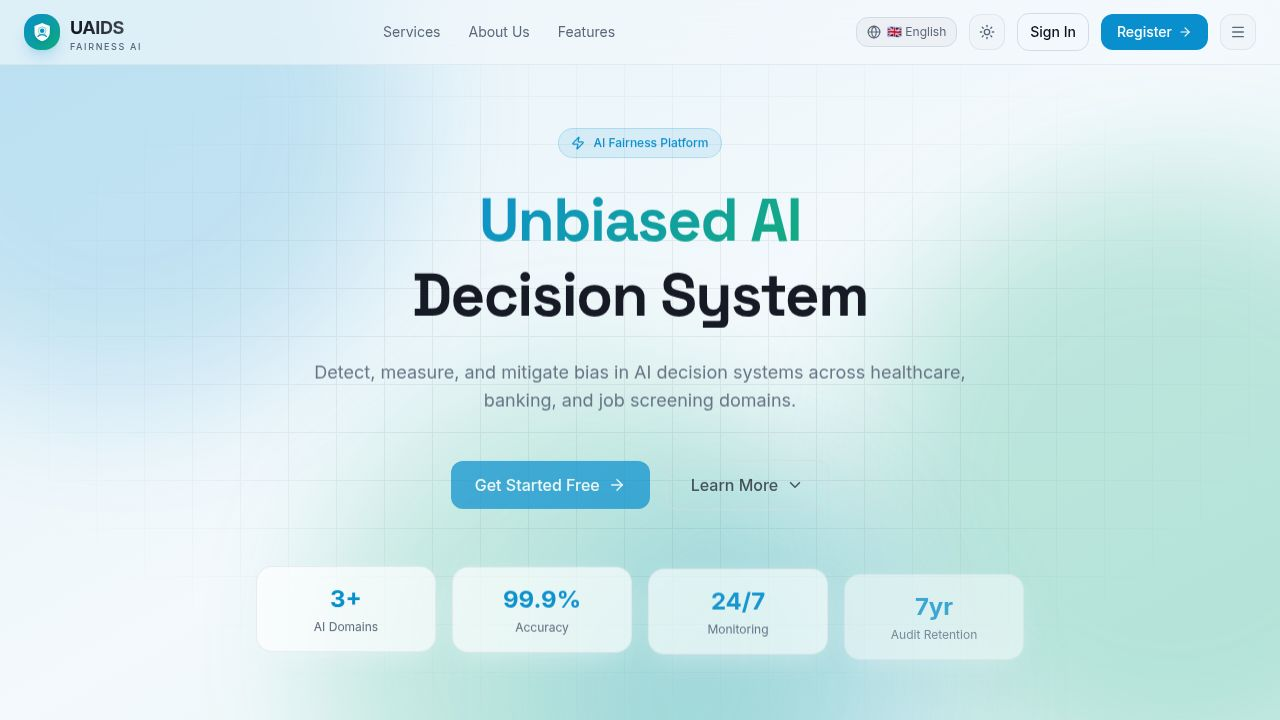
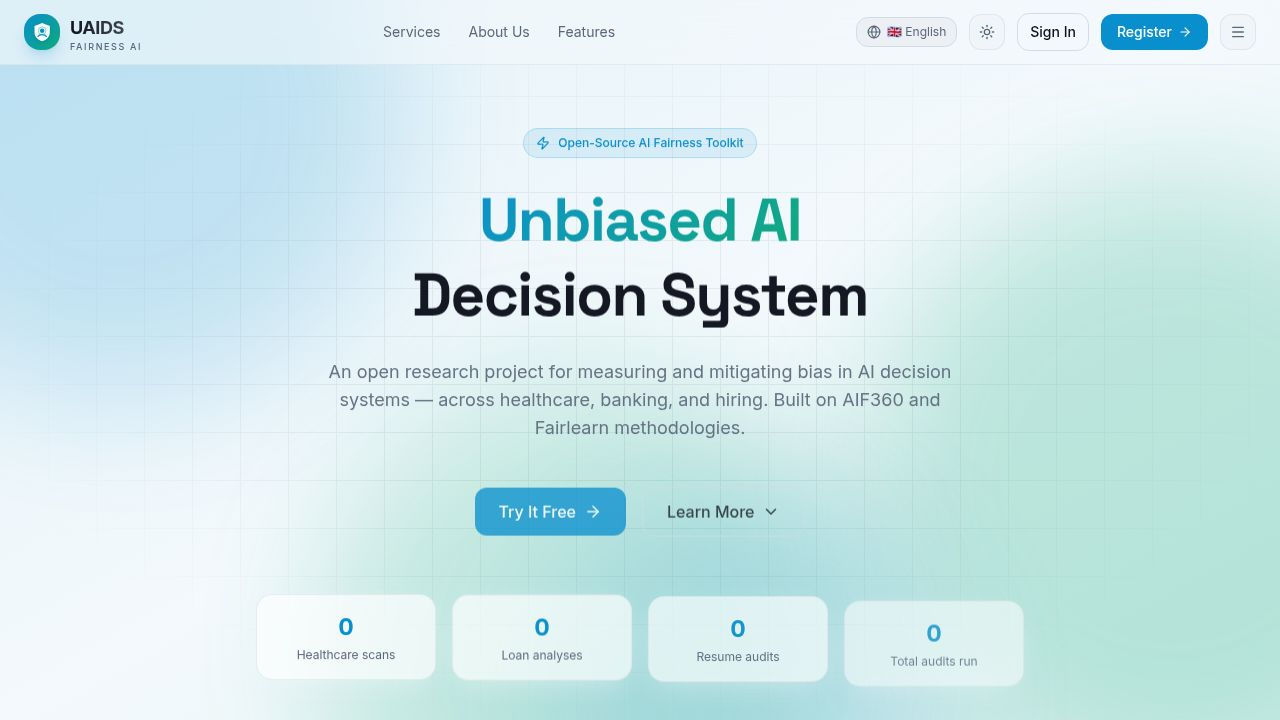
Add ability to save uploaded datasets to user accounts
Integrates Firebase Storage for dataset persistence, enabling users to upload, view, re-run, and delete their saved datasets.

Replit-Commit-Author: Agent
Replit-Commit-Session-Id: 15c3d57c-9d3d-49b1-8062-a2e3b21d369d
Replit-Commit-Checkpoint-Type: full_checkpoint
Replit-Commit-Event-Id: 7451cbd8-a8ed-4132-81a1-2406d93f4cdd
Replit-Commit-Screenshot-Url: https://storage.googleapis.com/screenshot-production-us-central1/257baa86-de05-4657-9491-a053127e2641/15c3d57c-9d3d-49b1-8062-a2e3b21d369d/8BMNf1Y
Replit-Helium-Checkpoint-Created: true

Changed region(s): [[0.2188, 0.6417, 0.8125, 0.9778], [0.25, 0.4889, 0.75, 0.6111], [0.4062, 0.1528, 0.5938, 0.2444]]

diff --git a/artifacts/uaids/src/pages/jobScreening/Upload.tsx b/artifacts/uaids/src/pages/jobScreening/Upload.tsx
@@ -17,14 +17,29 @@ import {
   Activity,
   FileCheck,
   Briefcase,
+  Cloud,
+  Trash2,
+  RotateCw,
 } from "lucide-react";
 import ScrollReveal from "@/components/ScrollReveal";
 import { recordAudit } from "@/lib/auditStats";
+import { useAuth } from "@/hooks/useAuth";
+import {
+  uploadDataset as storageUpload,
+  listDatasets,
+  deleteDataset,
+  fetchDatasetAsFile,
+  type SavedDataset,
+} from "@/lib/firebaseStorage";
+import { firebaseConfigured } from "@/lib/firebase";
 
 export function UploadPage() {
   const fileRef = useRef<HTMLInputElement>(null);
   const [error, setError] = useState<string | null>(null);
+  const [savedNotice, setSavedNotice] = useState<string | null>(null);
   const qc = useQueryClient();
+  const { user } = useAuth();
+  const canPersist = firebaseConfigured && !!user;
 
   const status = useQuery({
     queryKey: ["status"],
@@ -33,14 +48,53 @@ export function UploadPage() {
     retry: false,
   });
 
+  const savedDatasets = useQuery({
+    queryKey: ["saved-datasets", user?.uid ?? "guest"],
+    queryFn: () => (user ? listDatasets(user.uid) : Promise.resolve([])),
+    enabled: canPersist,
+    staleTime: 30_000,
+  });
+
   const upload = useMutation({
-    mutationFn: (file: File) => api.uploadDataset(file),
+    mutationFn: async (file: File) => {
+      const result = await api.uploadDataset(file);
+      if (canPersist && user) {
+        try {
+          await storageUpload(user.uid, file);
+          setSavedNotice(`Saved ${file.name} to your account.`);
+        } catch (err) {
+          console.warn("[upload] Firebase Storage save failed:", err);
+        }
+      }
+      return result;
+    },
+    onSuccess: () => {
+      recordAudit("jobs");
+      qc.invalidateQueries({ queryKey: ["status"] });
+      qc.invalidateQueries({ queryKey: ["bias-report"] });
+      qc.invalidateQueries({ queryKey: ["saved-datasets"] });
+    },
+    onError: (e: unknown) => setError(e instanceof Error ? e.message : "Upload failed"),
+  });
+
+  const reuploadSaved = useMutation({
+    mutationFn: async (dataset: SavedDataset) => {
+      const file = await fetchDatasetAsFile(dataset.downloadURL, dataset.name);
+      return api.uploadDataset(file);
+    },
     onSuccess: () => {
       recordAudit("jobs");
       qc.invalidateQueries({ queryKey: ["status"] });
       qc.invalidateQueries({ queryKey: ["bias-report"] });
     },
-    onError: (e: unknown) => setError(e instanceof Error ? e.message : "Upload failed"),
+    onError: (e: unknown) => setError(e instanceof Error ? e.message : "Re-upload failed"),
+  });
+
+  const removeSaved = useMutation({
+    mutationFn: (dataset: SavedDataset) => deleteDataset(dataset.fullPath),
+    onSuccess: () => {
+      qc.invalidateQueries({ queryKey: ["saved-datasets"] });
+    },
   });
 
   const seed = useMutation({
@@ -145,6 +199,12 @@ export function UploadPage() {
             {upload.isPending && (
               <div className="text-sm text-muted-foreground">Uploading and analyzing…</div>
             )}
+            {savedNotice && (
+              <div className="flex items-start gap-2 p-3 rounded-md bg-primary/10 text-primary text-sm">
+                <Cloud className="w-4 h-4 mt-0.5" />
+                {savedNotice}
+              </div>
+            )}
             {seed.data && <UploadSummary data={seed.data} />}
             {error && (
               <div className="flex items-start gap-2 p-3 rounded-md bg-destructive/10 text-destructive text-sm">
@@ -163,6 +223,77 @@ export function UploadPage() {
           </CardContent>
         </Card>
       </ScrollReveal>
+
+      {canPersist && (
+        <ScrollReveal delay={120}>
+          <Card>
+            <CardHeader>
+              <CardTitle className="flex items-center gap-2">
+                <Cloud className="w-5 h-5" /> Your saved datasets
+              </CardTitle>
+              <CardDescription>
+                Resume CSVs you upload while signed in are stored privately in your account so
+                you can re-run audits without re-uploading.
+              </CardDescription>
+            </CardHeader>
+            <CardContent>
+              {savedDatasets.isLoading ? (
+                <div className="text-sm text-muted-foreground">Loading saved datasets…</div>
+              ) : savedDatasets.data && savedDatasets.data.length > 0 ? (
+                <ul className="space-y-2">
+                  {savedDatasets.data.map((d) => (
+                    <li
+                      key={d.fullPath}
+                      className="flex items-center justify-between gap-3 p-3 rounded-md border bg-card hover-elevate"
+                    >
+                      <div className="min-w-0 flex-1">
+                        <div className="text-sm font-medium truncate">{d.name}</div>
+                        <div className="text-xs text-muted-foreground">
+                          {(d.size / 1024).toFixed(1)} KB ·{" "}
+                          {new Date(d.uploadedAt).toLocaleString()}
+                        </div>
+                      </div>
+                      <div className="flex items-center gap-2 shrink-0">
+                        <Button
+                          size="sm"
+                          variant="outline"
+                          onClick={() => reuploadSaved.mutate(d)}
+                          disabled={reuploadSaved.isPending}
+                        >
+                          <RotateCw className="w-3.5 h-3.5 mr-1.5" />
+                          Re-run
+                        </Button>
+                        <Button
+                          size="sm"
+                          variant="outline"
+                          asChild
+                        >
+                          <a href={d.downloadURL} download={d.name}>
+                            <Download className="w-3.5 h-3.5" />
+                          </a>
+                        </Button>
+                        <Button
+                          size="sm"
+                          variant="ghost"
+                          onClick={() => removeSaved.mutate(d)}
+                          disabled={removeSaved.isPending}
+                          aria-label="Delete dataset"
+                        >
+                          <Trash2 className="w-3.5 h-3.5 text-destructive" />
+                        </Button>
+                      </div>
+                    </li>
+                  ))}
+                </ul>
+              ) : (
+                <div className="text-sm text-muted-foreground">
+                  No saved datasets yet. Upload a CSV above and it will appear here.
+                </div>
+              )}
+            </CardContent>
+          </Card>
+        </ScrollReveal>
+      )}
 
       <ScrollReveal delay={160}>
         <Card>

diff --git a/artifacts/uaids/src/lib/firebaseStorage.ts b/artifacts/uaids/src/lib/firebaseStorage.ts
@@ -1,0 +1,83 @@
+import {
+  ref,
+  uploadBytes,
+  listAll,
+  getDownloadURL,
+  getMetadata,
+  deleteObject,
+} from "firebase/storage";
+import { storage, firebaseConfigured } from "./firebase";
+
+export interface SavedDataset {
+  name: string;
+  fullPath: string;
+  size: number;
+  uploadedAt: string;
+  downloadURL: string;
+}
+
+function datasetsPath(uid: string): string {
+  return `users/${uid}/datasets`;
+}
+
+export async function uploadDataset(
+  uid: string,
+  file: File,
+): Promise<SavedDataset> {
+  if (!firebaseConfigured) {
+    throw new Error("Firebase is not configured.");
+  }
+  const safeName = file.name.replace(/[^a-zA-Z0-9._-]/g, "_");
+  const stamped = `${Date.now()}_${safeName}`;
+  const r = ref(storage, `${datasetsPath(uid)}/${stamped}`);
+  const snap = await uploadBytes(r, file, { contentType: "text/csv" });
+  const [downloadURL, meta] = await Promise.all([
+    getDownloadURL(snap.ref),
+    getMetadata(snap.ref),
+  ]);
+  return {
+    name: stamped,
+    fullPath: snap.ref.fullPath,
+    size: meta.size ?? file.size,
+    uploadedAt: meta.timeCreated ?? new Date().toISOString(),
+    downloadURL,
+  };
+}
+
+export async function listDatasets(uid: string): Promise<SavedDataset[]> {
+  if (!firebaseConfigured) return [];
+  const r = ref(storage, datasetsPath(uid));
+  const res = await listAll(r);
+  const items = await Promise.all(
+    res.items.map(async (item) => {
+      const [url, meta] = await Promise.all([
+        getDownloadURL(item),
+        getMetadata(item),
+      ]);
+      return {
+        name: item.name,
+        fullPath: item.fullPath,
+        size: meta.size ?? 0,
+        uploadedAt: meta.timeCreated ?? "",
+        downloadURL: url,
+      } satisfies SavedDataset;
+    }),
+  );
+  items.sort((a, b) => b.uploadedAt.localeCompare(a.uploadedAt));
+  return items;
+}
+
+export async function deleteDataset(fullPath: string): Promise<void> {
+  if (!firebaseConfigured) return;
+  await deleteObject(ref(storage, fullPath));
+}
+
+export async function fetchDatasetAsFile(
+  url: string,
+  filename: string,
+): Promise<File> {
+  const res = await fetch(url);
+  if (!res.ok) throw new Error(`Failed to fetch dataset (${res.status})`);
+  const blob = await res.blob();
+  return new File([blob], filename, { type: "text/csv" });
+}

diff --git a/artifacts/uaids/src/lib/firebase.ts b/artifacts/uaids/src/lib/firebase.ts
@@ -6,6 +6,7 @@ import {
   type Unsubscribe,
 } from "firebase/auth";
 import { getFirestore, type Firestore } from "firebase/firestore";
+import { getStorage, type FirebaseStorage } from "firebase/storage";
 
 const apiKey =
   (import.meta.env.VITE_FIREBASE_API_KEY as string) ||
@@ -70,9 +71,19 @@ function makeStubFirestore(): Firestore {
   return new Proxy({}, handler) as unknown as Firestore;
 }
 
+function makeStubStorage(): FirebaseStorage {
+  const handler: ProxyHandler<object> = {
+    get() {
+      throw authNotConfiguredError();
+    },
+  };
+  return new Proxy({}, handler) as unknown as FirebaseStorage;
+}
+
 let _firebaseApp: FirebaseApp | null = null;
 let _auth: Auth;
 let _db: Firestore;
+let _storage: FirebaseStorage;
 let _googleProvider: GoogleAuthProvider;
 
 if (firebaseConfigured) {
@@ -80,12 +91,14 @@ if (firebaseConfigured) {
     _firebaseApp = getApps().length ? getApp() : initializeApp(firebaseConfig);
     _auth = getAuth(_firebaseApp);
     _db = getFirestore(_firebaseApp);
+    _storage = getStorage(_firebaseApp);
     _googleProvider = new GoogleAuthProvider();
     _googleProvider.setCustomParameters({ prompt: "select_account" });
   } catch (err) {
     console.warn("[firebase] init failed; running in unauthenticated mode:", err);
     _auth = makeStubAuth();
     _db = makeStubFirestore();
+    _storage = makeStubStorage();
     _googleProvider = new GoogleAuthProvider();
   }
 } else {
@@ -94,10 +107,12 @@ if (firebaseConfigured) {
   );
   _auth = makeStubAuth();
   _db = makeStubFirestore();
+  _storage = makeStubStorage();
   _googleProvider = new GoogleAuthProvider();
 }
 
 export const firebaseApp = _firebaseApp;
 export const auth = _auth;
 export const db = _db;
+export const storage = _storage;
 export const googleProvider = _googleProvider;